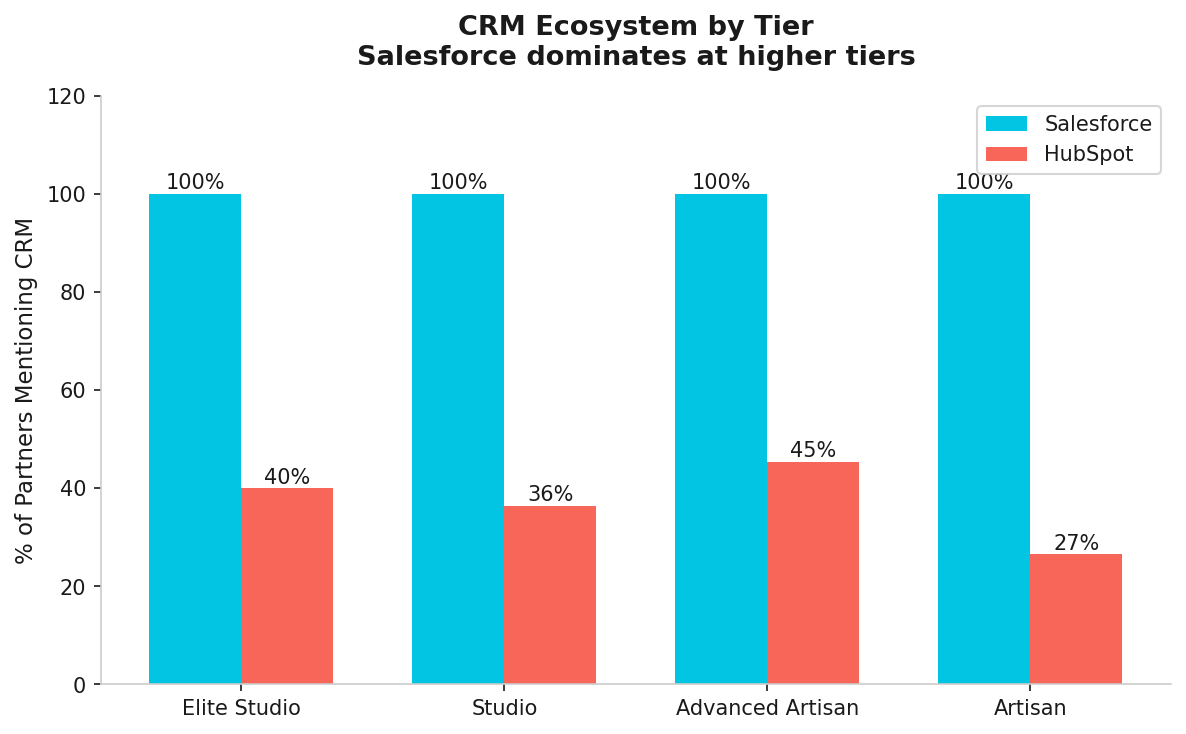
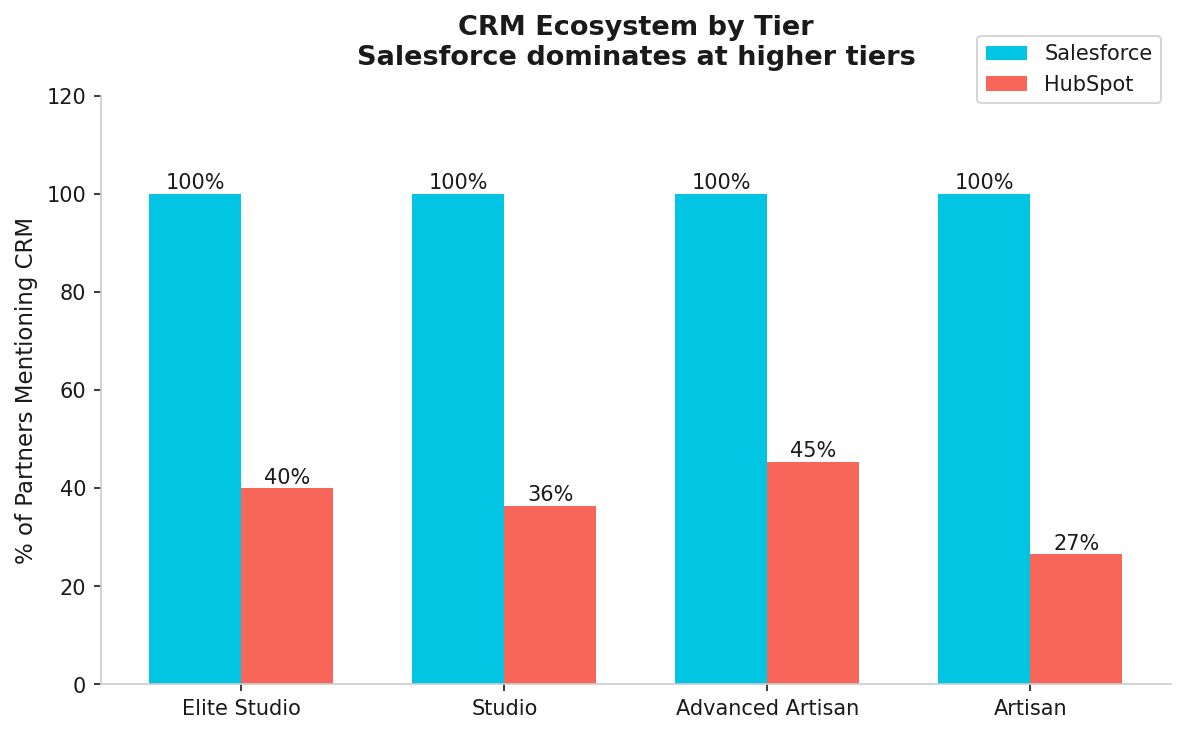
Changes to legend to move it higher

Changed region(s): [[0.8111, 0.0599, 0.9983, 0.2398]]

diff --git a/dashboard/charts.py b/dashboard/charts.py
@@ -150,7 +150,7 @@ def chart_crm_penetration(df):
     ax.set_title("CRM Ecosystem by Tier\nSalesforce dominates at higher tiers",
                  fontsize=13, fontweight="bold", pad=15)
     ax.set_ylim(0, 120)
-    ax.legend(fontsize=10)
+    ax.legend(fontsize=10, loc="upper right", bbox_to_anchor=(1, 1.12))
     ax.spines[["top", "right"]].set_visible(False)
     plt.tight_layout()
     plt.savefig(OUT / "chart3_crm_penetration.png", dpi=150, bbox_inches="tight")
@@ -194,7 +194,7 @@ def chart_min_engagement(df):
     ax.set_title("Minimum Engagement Length by Tier\n3-month commitments dominate at Elite",
                  fontsize=13, fontweight="bold", pad=15)
     ax.set_ylim(0, 110)
-    ax.legend(fontsize=10, loc="upper right")
+    ax.legend(fontsize=10, loc="upper right", bbox_to_anchor=(1, 1.12))
     ax.spines[["top", "right"]].set_visible(False)
     plt.tight_layout()
     plt.savefig(OUT / "chart4_min_engagement.png", dpi=150, bbox_inches="tight")